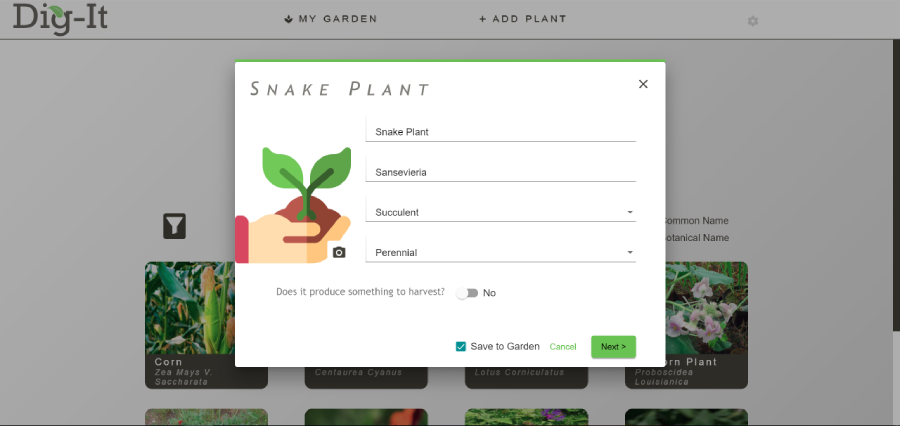
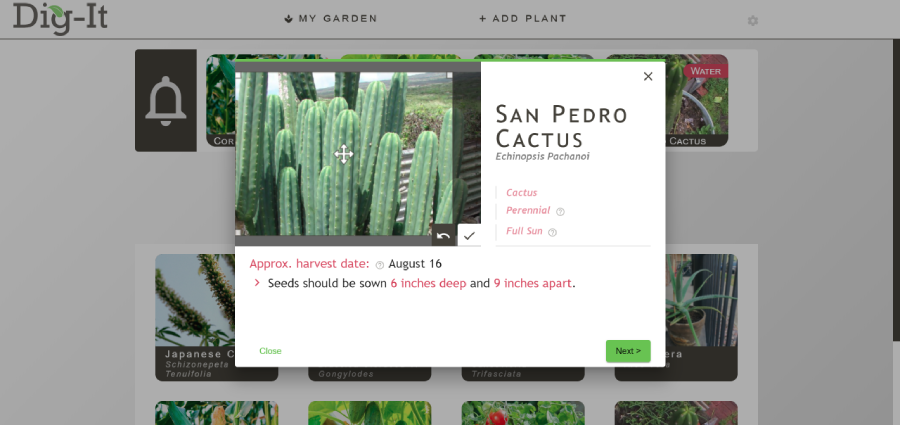
add screenshots for dig-it v2.2.2

Changed region(s): [[0.0, 0.0918, 1.0, 1.0], [0.9956, 0.7647, 1.0, 0.8259]]

diff --git a/src/app/home/home.component.ts b/src/app/home/home.component.ts
@@ -20,13 +20,16 @@ export class HomeComponent implements OnInit {
       description: ['Single-page gardening reminder app. Users receive custom reminders based on local climate, plant type and age.', 'Track each plant in your garden from the seed phase to the harvest phase.', 'Search Dig-It\'s crowdsourced database to find detailed growing information.', 'Receive custom reminders based on your local climate, the plant\'s growth conditions, and maturity stage for when to sow, water, or otherwise care for your plants.'],
       media: [
         {path: this.imgSrc + 'Dig-It1.png', caption: 'Dig-It homepage'},
-        {path: this.imgSrc + 'Dig-It2.png', caption: 'Login / Register'},
-        {path: this.imgSrc + 'Dig-It3.png', caption: 'View your garden and active gardening reminders.'},
-        {path: this.imgSrc + 'Dig-It4.png', caption: 'View basic plant info, upcoming reminders, and sowing and harvesting instructions.'},
-        {path: this.imgSrc + 'Dig-It5.png', caption: 'Upload and crop your own images to customize your garden.'},
-        {path: this.imgSrc + 'Dig-It6.png', caption: 'Search Dig-It\'s crowdsourced plant database.'},
-        {path: this.imgSrc + 'Dig-It7.png', caption: 'Filter plants by type, life cycle, and optimal sun requirements.'},
-        {path: this.imgSrc + 'Dig-It8.png', caption: 'Add a new plant to Dig-It\'s database.'},
+        {path: this.imgSrc + 'Dig-It2.png', caption: 'Dig-It homepage details'},
+        {path: this.imgSrc + 'Dig-It3.png', caption: 'About Dig-It header'},
+        {path: this.imgSrc + 'Dig-It4.png', caption: 'How Dig-It\'s calculates the optimal gardening schedule.'},
+        {path: this.imgSrc + 'Dig-It5.png', caption: 'Login / Register'},
+        {path: this.imgSrc + 'Dig-It6.png', caption: 'View your garden and active gardening reminders.'},
+        {path: this.imgSrc + 'Dig-It7.png', caption: 'View basic plant info, upcoming reminders, and sowing and harvesting instructions.'},
+        {path: this.imgSrc + 'Dig-It8.png', caption: 'Upload and crop your own images to customize your garden.'},
+        {path: this.imgSrc + 'Dig-It9.png', caption: 'Search Dig-It\'s crowdsourced plant database.'},
+        {path: this.imgSrc + 'Dig-It10.png', caption: 'Filter plants by type, life cycle, and optimal sun requirements.'},
+        {path: this.imgSrc + 'Dig-It11.png', caption: 'Add a new plant to Dig-It\'s database.'},
       ], githubHref: 'https://github.com/roberthelmick08/Dig-It', liveHref: 'http://dig-it.rh-codes.com', techsUsed: ['Angular', 'MongoDB', 'Node.js', 'HTML', 'SCSS']
     },
     {
